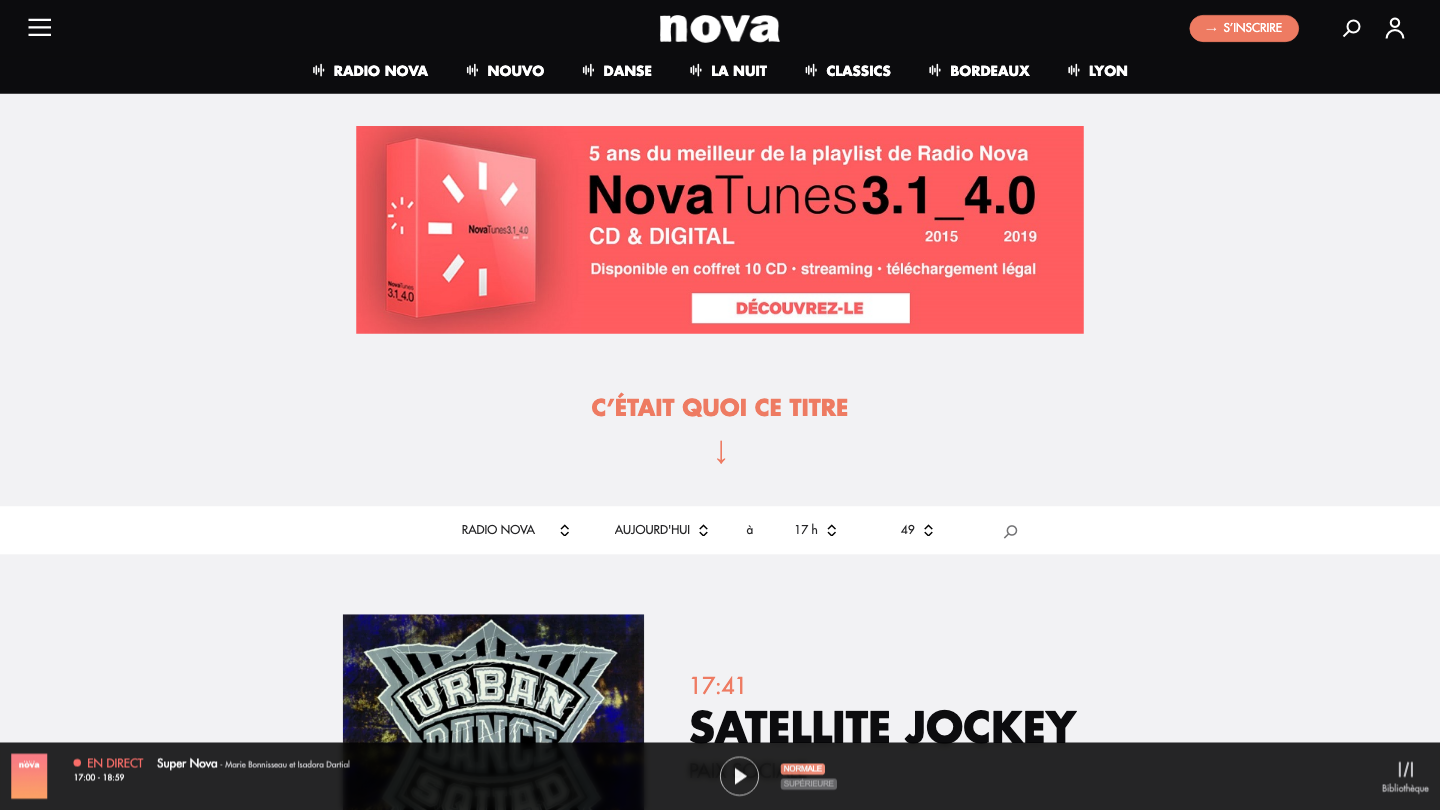
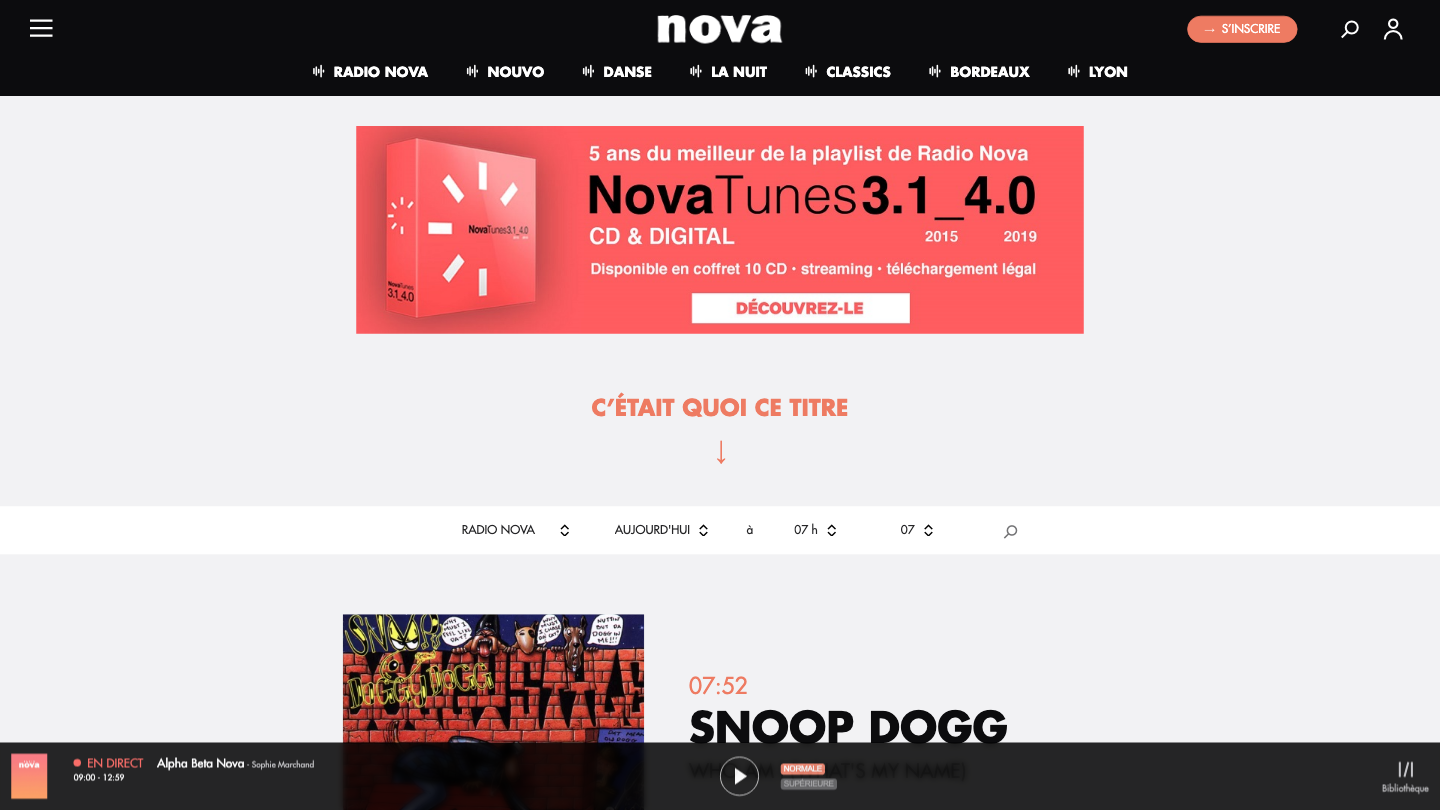
select hours

diff --git a/functions/src/index.ts b/functions/src/index.ts
@@ -22,21 +22,25 @@ exports.scrapeImages = functions
       deviceScaleFactor: 0.75,
     });
 
-    await page.screenshot({ path: '2.png' });
+    await page.screenshot({ path: '1.png' });
 
     const hours = new Date(Date.now()).getHours();
 
     let data: string[] = [];
-
+    console.log('coucou');
     let k = 0;
     while (k < hours) {
-      // await page.select('#telCountryInput', 'my-value');
+      await page.select(
+        'body > div.wrap > div.content > main > div.filter_bar.js-sticky.d-lg-block.d-none > div > div > div > div > div:nth-child(4) > label > select',
+        `0${hours - 1}`
+      );
+
+      await page.screenshot({ path: '2.png' });
 
       // Execute code in the DOM
       const newData = await page.evaluate(async () => {
         // TODO: add click on load more first
         const links = document.querySelectorAll('a');
-
         const urls = Array.from(links)
           .map((link) => link.href)
           .filter((href) => href.includes('spotify'));
